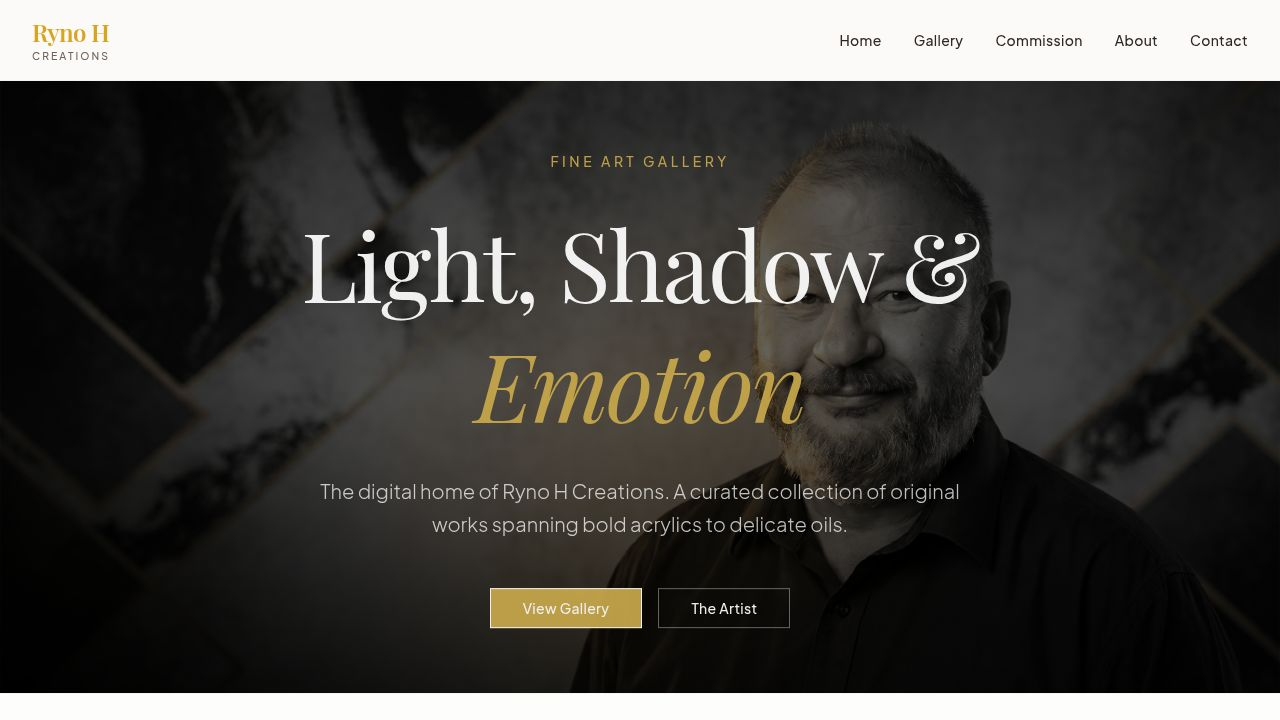
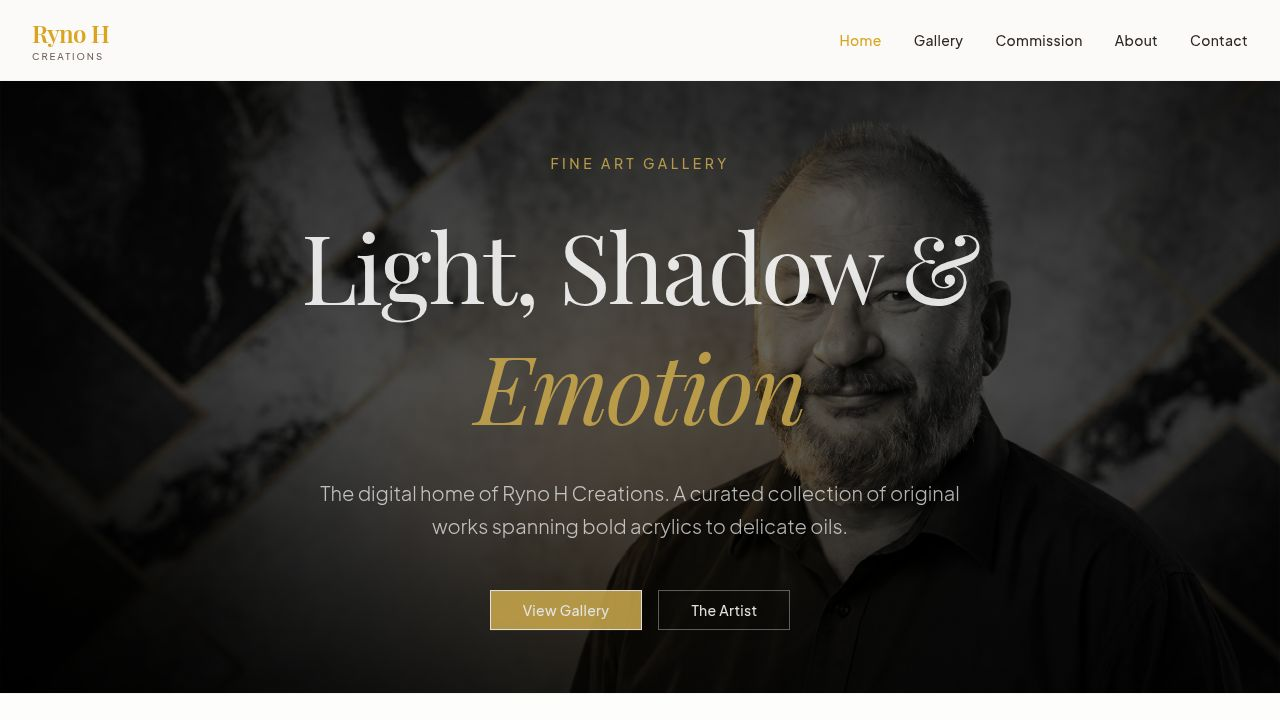
Add sold status and orientation options for paintings
Implement new `sold` boolean and `orientation` text columns in the database schema, update API endpoints and schemas, and add corresponding UI elements to the admin panel and painting cards.

Replit-Commit-Author: Agent
Replit-Commit-Session-Id: 8051aba1-8e56-4658-8dc8-d64f59effdf2
Replit-Commit-Checkpoint-Type: full_checkpoint
Replit-Commit-Event-Id: cdda4735-ae88-483c-ada9-72eb18c618e1
Replit-Commit-Screenshot-Url: https://storage.googleapis.com/screenshot-production-us-central1/614e8f9a-ec54-4b45-80b8-25019f721137/8051aba1-8e56-4658-8dc8-d64f59effdf2/Pl2Rz5b
Replit-Helium-Checkpoint-Created: true

diff --git a/artifacts/ryno-h-creations/src/pages/admin.tsx b/artifacts/ryno-h-creations/src/pages/admin.tsx
@@ -1,5 +1,4 @@
-import React, { useState, useEffect, useRef } from "react";
-import { useLocation } from "wouter";
+import React, { useState, useRef } from "react";
 import { useQueryClient } from "@tanstack/react-query";
 import { 
   useAdminLogin, 
@@ -103,6 +102,27 @@ export default function Admin() {
   );
 }
 
+function OrientationToggle({ value, onChange }: { value: string; onChange: (v: string) => void }) {
+  return (
+    <div className="flex rounded-none border border-input overflow-hidden">
+      <button
+        type="button"
+        onClick={() => onChange("portrait")}
+        className={`flex-1 py-2 text-sm font-medium transition-colors ${value === "portrait" ? "bg-primary text-primary-foreground" : "bg-background text-muted-foreground hover:bg-muted"}`}
+      >
+        Portrait
+      </button>
+      <button
+        type="button"
+        onClick={() => onChange("landscape")}
+        className={`flex-1 py-2 text-sm font-medium transition-colors ${value === "landscape" ? "bg-primary text-primary-foreground" : "bg-background text-muted-foreground hover:bg-muted"}`}
+      >
+        Landscape
+      </button>
+    </div>
+  );
+}
+
 function CreatePaintingForm({ token }: { token: string }) {
   const { toast } = useToast();
   const queryClient = useQueryClient();
@@ -112,6 +132,8 @@ function CreatePaintingForm({ token }: { token: string }) {
   const [description, setDescription] = useState("");
   const [price, setPrice] = useState("");
   const [featured, setFeatured] = useState(false);
+  const [sold, setSold] = useState(false);
+  const [orientation, setOrientation] = useState("portrait");
   const [file, setFile] = useState<File | null>(null);
   const [isUploading, setIsUploading] = useState(false);
 
@@ -127,17 +149,17 @@ function CreatePaintingForm({ token }: { token: string }) {
     }
 
     try {
-      // 1. Create painting record
       const painting = await createMutation.mutateAsync({
         data: {
           title,
           description: description || undefined,
           price: Number(price),
-          featured
+          featured,
+          sold,
+          orientation
         }
       });
 
-      // 2. Upload image
       setIsUploading(true);
       const formData = new FormData();
       formData.append("image", file);
@@ -153,11 +175,12 @@ function CreatePaintingForm({ token }: { token: string }) {
 
       toast({ title: "Painting added successfully" });
       
-      // Reset form
       setTitle("");
       setDescription("");
       setPrice("");
       setFeatured(false);
+      setSold(false);
+      setOrientation("portrait");
       setFile(null);
       if (fileInputRef.current) fileInputRef.current.value = "";
       
@@ -189,12 +212,22 @@ function CreatePaintingForm({ token }: { token: string }) {
             <Textarea id="description" value={description} onChange={e => setDescription(e.target.value)} className="rounded-none resize-none" rows={3} />
           </div>
           <div className="space-y-2">
+            <Label>Orientation</Label>
+            <OrientationToggle value={orientation} onChange={setOrientation} />
+          </div>
+          <div className="space-y-2">
             <Label htmlFor="image">Image File *</Label>
             <Input id="image" type="file" accept="image/*" ref={fileInputRef} onChange={e => setFile(e.target.files?.[0] || null)} required className="rounded-none cursor-pointer" />
           </div>
-          <div className="flex items-center space-x-2 pt-2">
-            <Checkbox id="featured" checked={featured} onCheckedChange={(c) => setFeatured(!!c)} />
-            <Label htmlFor="featured" className="cursor-pointer">Feature on homepage</Label>
+          <div className="flex flex-col gap-3 pt-2">
+            <div className="flex items-center space-x-2">
+              <Checkbox id="featured" checked={featured} onCheckedChange={(c) => setFeatured(!!c)} />
+              <Label htmlFor="featured" className="cursor-pointer">Feature on homepage</Label>
+            </div>
+            <div className="flex items-center space-x-2">
+              <Checkbox id="sold" checked={sold} onCheckedChange={(c) => setSold(!!c)} />
+              <Label htmlFor="sold" className="cursor-pointer">Mark as Sold</Label>
+            </div>
           </div>
           <Button type="submit" className="w-full rounded-none mt-4" disabled={createMutation.isPending || isUploading}>
             {(createMutation.isPending || isUploading) ? "Uploading..." : "Publish to Gallery"}
@@ -232,7 +265,26 @@ function PaintingList({ token }: { token: string }) {
   const handleToggleFeatured = (id: number, currentFeatured: boolean) => {
     updateMutation.mutate({ id, data: { featured: !currentFeatured } }, {
       onSuccess: () => {
-        toast({ title: "Status updated" });
+        toast({ title: "Featured status updated" });
+        queryClient.invalidateQueries({ queryKey: getListPaintingsQueryKey() });
+      }
+    });
+  };
+
+  const handleToggleSold = (id: number, currentSold: boolean) => {
+    updateMutation.mutate({ id, data: { sold: !currentSold } }, {
+      onSuccess: () => {
+        toast({ title: currentSold ? "Marked as available" : "Marked as sold" });
+        queryClient.invalidateQueries({ queryKey: getListPaintingsQueryKey() });
+      }
+    });
+  };
+
+  const handleToggleOrientation = (id: number, currentOrientation: string) => {
+    const next = currentOrientation === "landscape" ? "portrait" : "landscape";
+    updateMutation.mutate({ id, data: { orientation: next } }, {
+      onSuccess: () => {
+        toast({ title: `Orientation set to ${next}` });
         queryClient.invalidateQueries({ queryKey: getListPaintingsQueryKey() });
       }
     });
@@ -255,14 +307,20 @@ function PaintingList({ token }: { token: string }) {
     <div className="space-y-4">
       <h2 className="text-xl font-serif mb-4">Current Inventory ({paintings?.length || 0})</h2>
       {paintings?.map(painting => (
-        <div key={painting.id} className="flex gap-4 p-4 border border-border/40 bg-card hover:bg-muted/20 transition-colors">
-          <div className="w-20 h-20 bg-muted shrink-0 flex items-center justify-center overflow-hidden">
+        <div key={painting.id} className={`flex gap-4 p-4 border bg-card hover:bg-muted/20 transition-colors ${painting.sold ? "border-border/20 opacity-70" : "border-border/40"}`}>
+          <div className="w-20 h-20 bg-muted shrink-0 flex items-center justify-center overflow-hidden relative">
             {painting.imageUrl ? (
               <img src={painting.imageUrl} alt={painting.title} className="w-full h-full object-cover" />
             ) : <span className="text-xs text-muted-foreground">No img</span>}
+            {painting.sold && (
+              <div className="absolute inset-0 bg-black/50 flex items-center justify-center">
+                <span className="text-white text-[10px] font-bold tracking-wider">SOLD</span>
+              </div>
+            )}
           </div>
-          <div className="flex-1 flex flex-col justify-center">
-            <h3 className="font-medium">{painting.title}</h3>
+          <div className="flex-1 flex flex-col justify-center min-w-0">
+            <h3 className="font-medium truncate">{painting.title}</h3>
+            <p className="text-xs text-muted-foreground mt-0.5 capitalize">{painting.orientation}</p>
             {editingId === painting.id ? (
               <div className="flex items-center gap-2 mt-2">
                 <Input 
@@ -290,6 +348,20 @@ function PaintingList({ token }: { token: string }) {
               />
               <Label htmlFor={`feat-${painting.id}`} className="cursor-pointer text-xs">Featured</Label>
             </div>
+            <div className="flex items-center gap-2 text-xs">
+              <Checkbox 
+                id={`sold-${painting.id}`} 
+                checked={painting.sold} 
+                onCheckedChange={() => handleToggleSold(painting.id, painting.sold)} 
+              />
+              <Label htmlFor={`sold-${painting.id}`} className="cursor-pointer text-xs">Sold</Label>
+            </div>
+            <button
+              onClick={() => handleToggleOrientation(painting.id, painting.orientation)}
+              className="text-[10px] tracking-wide uppercase text-muted-foreground border border-border/40 px-2 py-1 hover:border-primary hover:text-primary transition-colors"
+            >
+              {painting.orientation === "landscape" ? "↔ Land" : "↕ Port"}
+            </button>
             <Button size="sm" variant="destructive" onClick={() => handleDelete(painting.id)} className="h-7 text-xs rounded-none">
               Delete
             </Button>

diff --git a/artifacts/ryno-h-creations/src/components/painting-card.tsx b/artifacts/ryno-h-creations/src/components/painting-card.tsx
@@ -1,14 +1,15 @@
-import { Card, CardContent, CardFooter } from "@/components/ui/card";
+import { Card, CardContent } from "@/components/ui/card";
 import { Button } from "@/components/ui/button";
 import type { Painting } from "@workspace/api-client-react";
 
 export function PaintingCard({ painting }: { painting: Painting }) {
   const formattedPrice = painting.price.toLocaleString('en-ZA');
   const whatsappUrl = `https://wa.me/27817724975?text=Hi%20Ryno%2C%20I%27m%20interested%20in%20${encodeURIComponent(painting.title)}%20(R%20${painting.price})`;
+  const isLandscape = painting.orientation === "landscape";
 
   return (
     <Card className="overflow-hidden border-border/40 bg-card rounded-none shadow-sm hover:shadow-md transition-all duration-300 group flex flex-col h-full">
-      <div className="aspect-[4/5] relative overflow-hidden bg-muted">
+      <div className={`relative overflow-hidden bg-muted ${isLandscape ? "aspect-[4/3]" : "aspect-[4/5]"}`}>
         {painting.imageUrl ? (
           <img
             src={painting.imageUrl}
@@ -20,6 +21,13 @@ export function PaintingCard({ painting }: { painting: Painting }) {
             Image forthcoming
           </div>
         )}
+        {painting.sold && (
+          <div className="absolute inset-0 bg-black/40 flex items-center justify-center">
+            <span className="bg-black/80 text-white text-sm font-medium tracking-[0.2em] uppercase px-4 py-2 border border-white/30">
+              Sold
+            </span>
+          </div>
+        )}
       </div>
       <CardContent className="p-6 flex-1 flex flex-col">
         <h3 className="font-serif text-lg font-medium text-foreground tracking-tight">{painting.title}</h3>
@@ -27,12 +35,18 @@ export function PaintingCard({ painting }: { painting: Painting }) {
           <p className="text-sm text-muted-foreground mt-3 line-clamp-2 leading-relaxed">{painting.description}</p>
         )}
         <div className="mt-auto pt-6 flex justify-between items-center">
-          <span className="font-medium text-foreground tracking-wide">R {formattedPrice}</span>
-          <Button asChild variant="outline" className="rounded-none border-primary text-primary hover:bg-primary hover:text-primary-foreground transition-colors">
-            <a href={whatsappUrl} target="_blank" rel="noopener noreferrer">
-              Enquire
-            </a>
-          </Button>
+          <span className={`font-medium tracking-wide ${painting.sold ? "text-muted-foreground line-through" : "text-foreground"}`}>
+            R {formattedPrice}
+          </span>
+          {painting.sold ? (
+            <span className="text-xs tracking-widest uppercase text-muted-foreground">Sold</span>
+          ) : (
+            <Button asChild variant="outline" className="rounded-none border-primary text-primary hover:bg-primary hover:text-primary-foreground transition-colors">
+              <a href={whatsappUrl} target="_blank" rel="noopener noreferrer">
+                Enquire
+              </a>
+            </Button>
+          )}
         </div>
       </CardContent>
     </Card>

diff --git a/artifacts/api-server/src/app.ts b/artifacts/api-server/src/app.ts
@@ -5,6 +5,7 @@ import path from "path";
 import fs from "fs";
 import router from "./routes";
 import { logger } from "./lib/logger";
+import { pool } from "@workspace/db";
 
 const app: Express = express();
 
@@ -47,6 +48,20 @@ app.use(
 
 app.use(express.json());
 app.use(express.urlencoded({ extended: true }));
+
+async function runMigrations() {
+  try {
+    await pool.query(`
+      ALTER TABLE paintings ADD COLUMN IF NOT EXISTS sold boolean NOT NULL DEFAULT false;
+      ALTER TABLE paintings ADD COLUMN IF NOT EXISTS orientation text NOT NULL DEFAULT 'portrait';
+    `);
+    logger.info("Migrations applied successfully");
+  } catch (err) {
+    logger.error({ err }, "Migration failed");
+  }
+}
+
+runMigrations();
 
 app.use("/api", router);
 

diff --git a/artifacts/api-server/src/routes/admin.ts b/artifacts/api-server/src/routes/admin.ts
@@ -59,6 +59,8 @@ router.post("/admin/paintings", requireAdmin, async (req, res): Promise<void> =>
       description: body.data.description ?? null,
       price: String(body.data.price),
       featured: body.data.featured ?? false,
+      sold: body.data.sold ?? false,
+      orientation: body.data.orientation ?? "portrait",
     })
     .returning();
 
@@ -69,6 +71,8 @@ router.post("/admin/paintings", requireAdmin, async (req, res): Promise<void> =>
     price: Number(painting.price),
     imageUrl: painting.imageUrl ?? null,
     featured: painting.featured,
+    sold: painting.sold,
+    orientation: painting.orientation,
     createdAt: painting.createdAt.toISOString(),
   });
 });
@@ -116,6 +120,8 @@ router.post(
       price: Number(painting.price),
       imageUrl: painting.imageUrl ?? null,
       featured: painting.featured,
+      sold: painting.sold,
+      orientation: painting.orientation,
       createdAt: painting.createdAt.toISOString(),
     });
   },

diff --git a/artifacts/api-server/src/routes/paintings.ts b/artifacts/api-server/src/routes/paintings.ts
@@ -24,6 +24,8 @@ function paintingToResponse(p: typeof paintingsTable.$inferSelect) {
     price: Number(p.price),
     imageUrl: p.imageUrl ?? null,
     featured: p.featured,
+    sold: p.sold,
+    orientation: p.orientation,
     createdAt: p.createdAt.toISOString(),
   };
 }
@@ -101,6 +103,8 @@ router.patch("/paintings/:id", async (req, res): Promise<void> => {
   if (body.data.description !== undefined) updateData.description = body.data.description;
   if (body.data.price !== undefined) updateData.price = String(body.data.price);
   if (body.data.featured !== undefined) updateData.featured = body.data.featured;
+  if (body.data.sold !== undefined) updateData.sold = body.data.sold;
+  if (body.data.orientation !== undefined) updateData.orientation = body.data.orientation;
 
   const [painting] = await db
     .update(paintingsTable)

diff --git a/lib/db/src/schema/paintings.ts b/lib/db/src/schema/paintings.ts
@@ -10,6 +10,8 @@ export const paintingsTable = pgTable("paintings", {
   imageUrl: text("image_url"),
   cloudinaryPublicId: text("cloudinary_public_id"),
   featured: boolean("featured").notNull().default(false),
+  sold: boolean("sold").notNull().default(false),
+  orientation: text("orientation").notNull().default("portrait"),
   createdAt: timestamp("created_at", { withTimezone: true }).notNull().defaultNow(),
   updatedAt: timestamp("updated_at", { withTimezone: true }).notNull().defaultNow().$onUpdate(() => new Date()),
 });